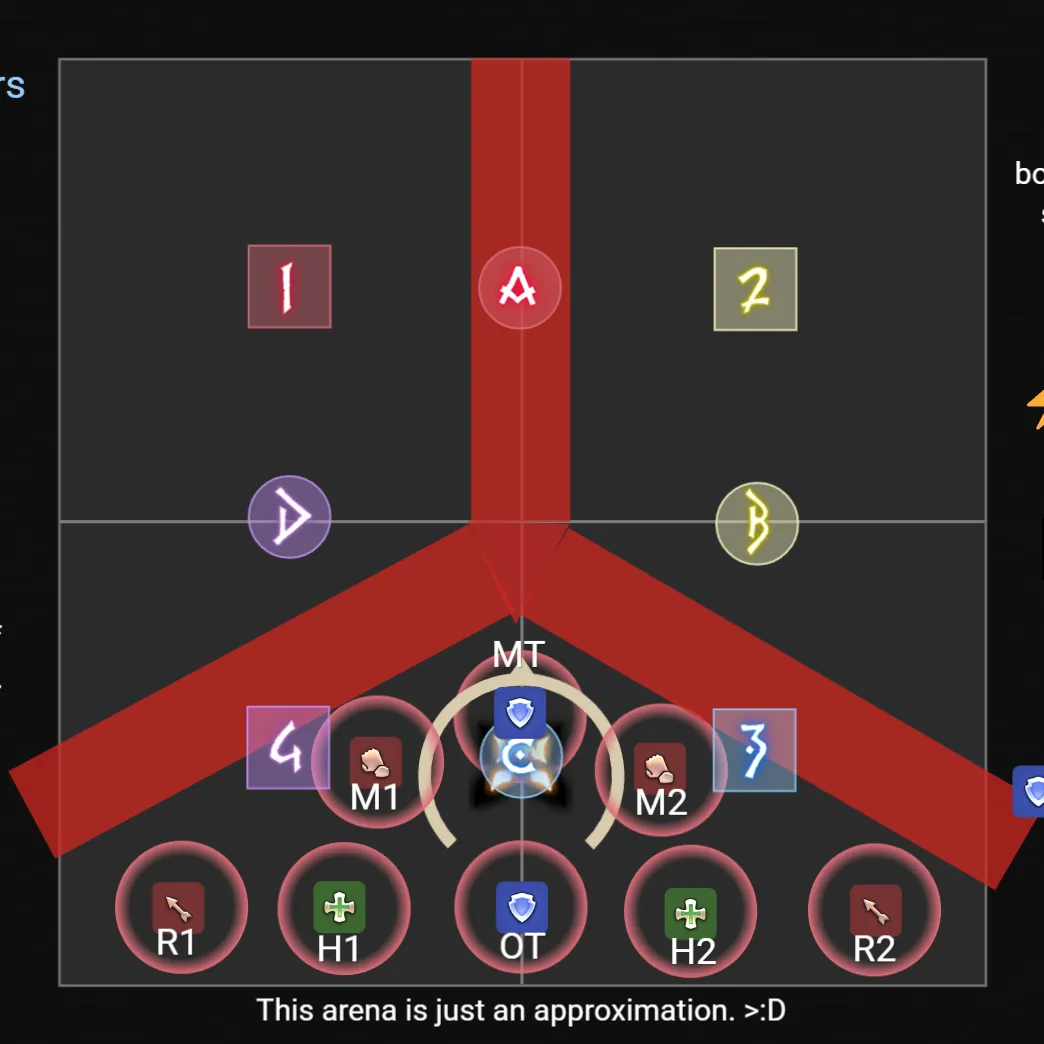
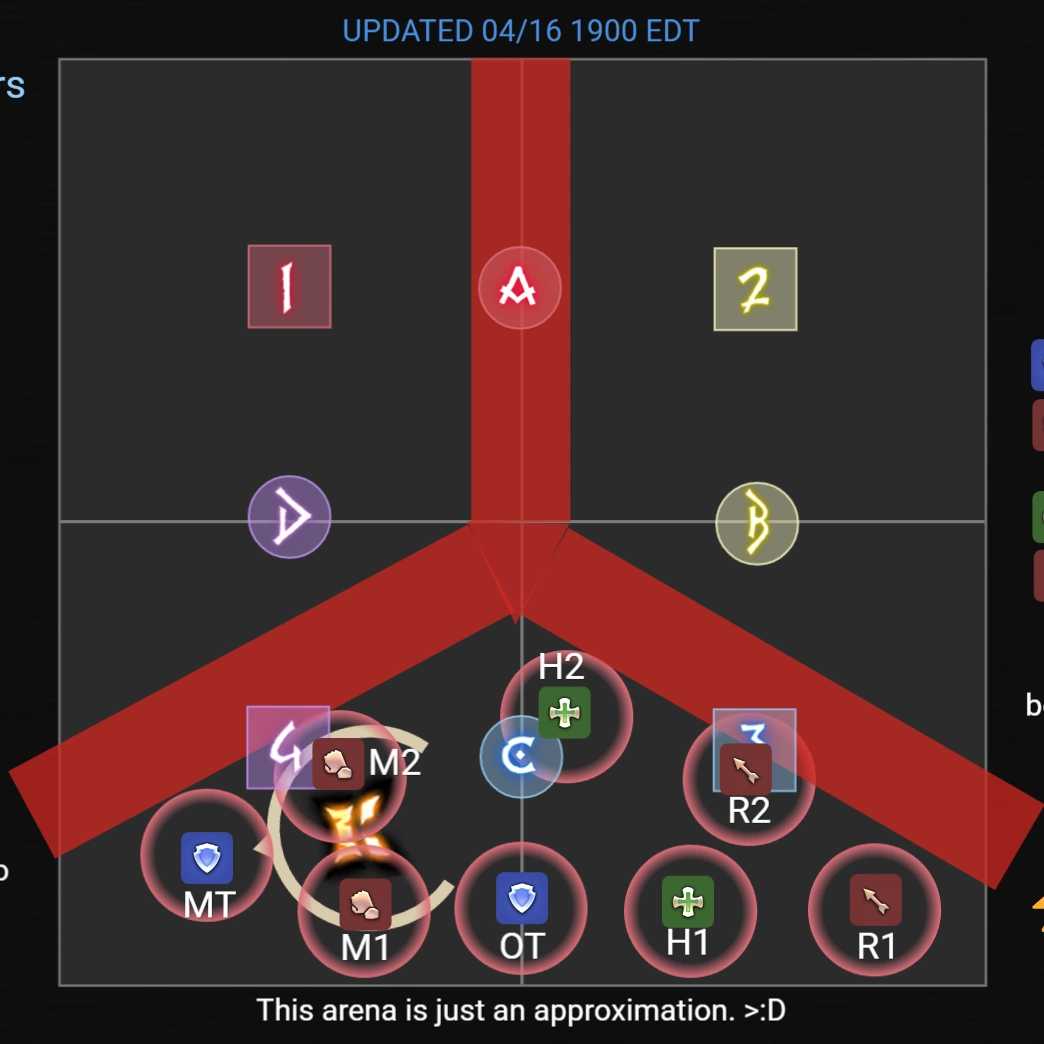
update latte 800

diff --git a/wtfdig/src/routes/72/m6s/+page.ts b/wtfdig/src/routes/72/m6s/+page.ts
@@ -2112,7 +2112,7 @@ const latteStrat: Strat = {
                         {
                             role: 'Tank',
                             party: 1,
-                            description: 'Center North',
+                            description: 'West',
                             imageUrl: './m6s/latte/pudding-800.webp'
                         },
                         {
@@ -2124,31 +2124,31 @@ const latteStrat: Strat = {
                         {
                             role: 'Healer',
                             party: 1,
-                            description: 'Close South West',
+                            description: 'Close South East',
                             imageUrl: './m6s/latte/pudding-800.webp'
                         },
                         {
                             role: 'Healer',
                             party: 2,
-                            description: 'Close South East',
+                            description: 'Center North',
                             imageUrl: './m6s/latte/pudding-800.webp'
                         },
                         {
                             role: 'Melee',
                             party: 1,
-                            description: 'West',
+                            description: 'Close South West',
                             imageUrl: './m6s/latte/pudding-800.webp'
                         },
                         {
                             role: 'Melee',
                             party: 2,
-                            description: 'East',
+                            description: 'Close North West',
                             imageUrl: './m6s/latte/pudding-800.webp'
                         },
                         {
                             role: 'Ranged',
                             party: 1,
-                            description: 'Far South West',
+                            description: 'Far North East',
                             imageUrl: './m6s/latte/pudding-800.webp'
                         },
                         {

diff --git a/wtfdig/src/routes/+layout.svelte b/wtfdig/src/routes/+layout.svelte
@@ -33,7 +33,7 @@
         </header>
         <article>
             <div>
-                <p>4/22/2025: fix m8s quad moon, add fixed seeds</p>
+                <p>4/22/2025: fix m8s quad moon, add fixed seeds, update m6s latte 8-0-0 towers</p>
                 <p>4/17/2025: update m8s toxic p2 twofold</p>
                 <p>4/16/2025: cheatsheet mode for 7 + 8</p>
                 <p>4/15/2025: cheatsheet mode for 5 + 6, add locked seeds to 7</p>
